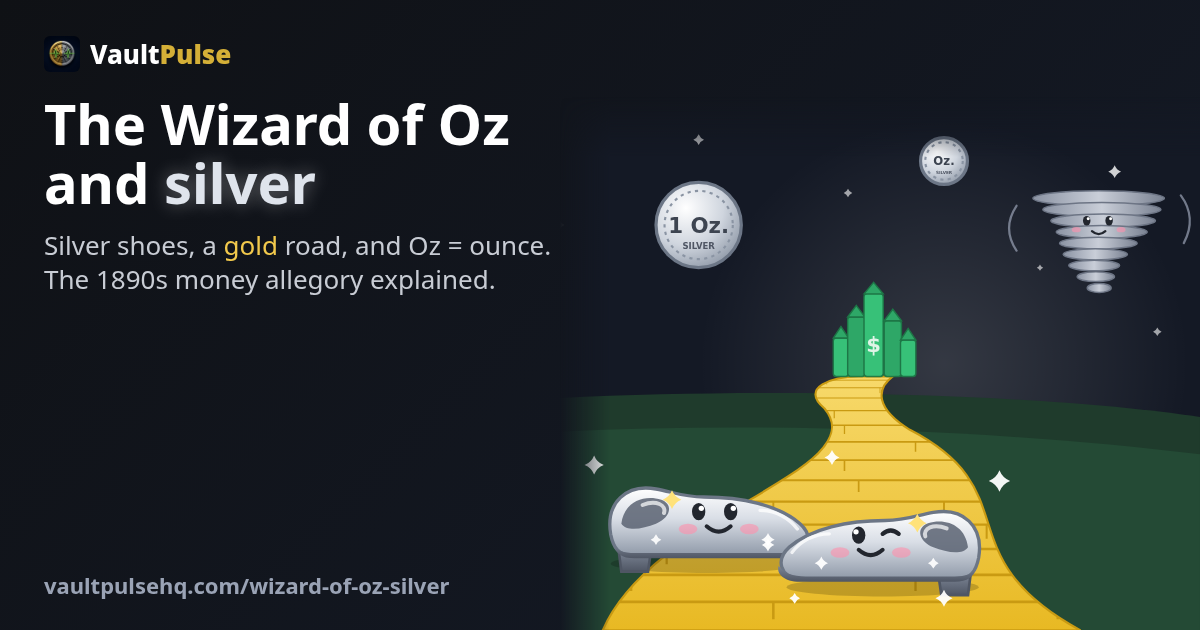
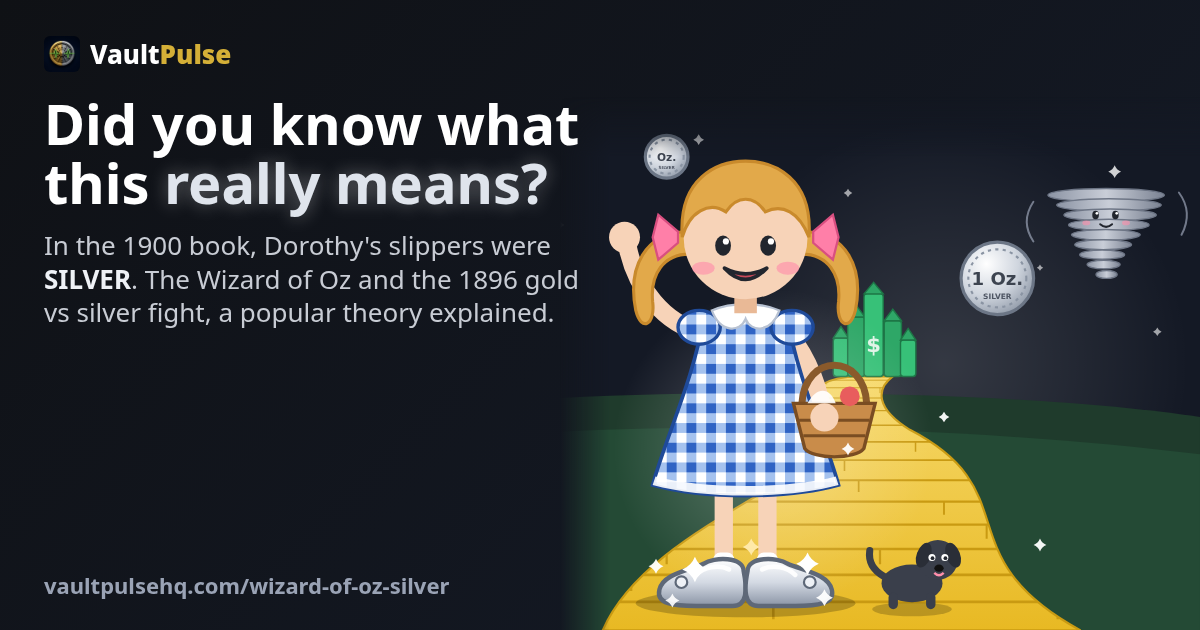
Oz X ad + og card: question headline 'Did you know what this really means?', original smiling book-style Dorothy (checked gingham, pigtails, basket) in sparkly SILVER slippers on the yellow brick road, small generic pup

diff --git a/scripts/oz_art.py b/scripts/oz_art.py
@@ -67,3 +67,78 @@ def scene(p='h',vb='0 0 800 500',sky=True,ad=False):
             +DEFS.format(p=p)+bg+ground+road(p,800,500,262)+city(p,494,262,.9)+(tornado(p,705,95,.7)+coin(p,330,120,40)+coin(p,560,60,22,'Oz.') if ad else tornado(p,150,110,.85)+coin(p,690,150,42)+coin(p,300,95,24,'Oz.'))
             +shoe(p,240,350,1.25)+shoe(p,600,372,1.25,True,True)
             +''.join(spark(x,y,r,'#fff',.95) for x,y,r in [(232,345,9),(455,338,7),(612,360,10),(395,420,6),(560,470,8),(420,470,5)])+'</svg>')
+def dorothy(p,x,y,sc=1):
+    """ORIGINAL cartoon Dorothy based on the public-domain 1900 book (blue-and-white checked gingham,
+    pigtails, little basket, SILVER shoes). Not the 1939 film design: golden pigtails with pink ribbons,
+    plain checked dress with a white collar, silver (not ruby) slippers. Feet at (0,0), ~300 units tall."""
+    skin='#f7d3b8'; skin_s='#e9b996'; hair='#e2a94a'; hair_s='#c98a2c'; ink='#22262e'
+    d=(f'<defs><pattern id="{p}ging" width="14" height="14" patternUnits="userSpaceOnUse">'
+       f'<rect width="14" height="14" fill="#ffffff"/><rect width="7" height="14" fill="#5b8fe0" opacity=".55"/>'
+       f'<rect width="14" height="7" fill="#5b8fe0" opacity=".55"/><rect width="7" height="7" fill="#2f63c4"/></pattern>'
+       f'<linearGradient id="{p}slip" x1="0" y1="0" x2="0" y2="1"><stop offset="0" stop-color="#ffffff"/><stop offset=".5" stop-color="#d3d9e3"/><stop offset="1" stop-color="#8a94a5"/></linearGradient></defs>')
+    g=d+'<ellipse cx="0" cy="2" rx="78" ry="10" fill="#000" opacity=".22"/>'
+    # legs + socks
+    g+=f'<rect x="-22" y="-84" width="13" height="74" rx="6" fill="{skin}"/><rect x="9" y="-84" width="13" height="74" rx="6" fill="{skin}"/>'
+    g+='<rect x="-23" y="-34" width="15" height="24" rx="5" fill="#ffffff"/><rect x="8" y="-34" width="15" height="24" rx="5" fill="#ffffff"/>'
+    # SILVER slippers (big, sparkly)
+    for sx,fl in [(-17,-1),(17,1)]:
+        g+=(f'<g transform="translate({sx},0) scale({fl*1.3},1.3)">'
+            f'<path d="M-12,-16 C-12,-24 4,-24 10,-20 C20,-16 32,-14 34,-6 C36,2 26,3 14,3 L-6,3 C-14,3 -14,-6 -12,-16Z" fill="url(#{p}slip)" stroke="#5e6878" stroke-width="2.4"/>'
+            f'<path d="M-4,-17 C2,-20 10,-18 14,-14" stroke="#fff" stroke-width="2.6" fill="none" stroke-linecap="round" opacity=".9"/>'
+            f'<circle cx="22" cy="-10" r="3.2" fill="#eef1f6" stroke="#5e6878" stroke-width="1.2"/></g>')
+    g+=spark(-36,-22,9,'#ffffff',1)+spark(44,-26,8,'#ffffff',1)+spark(4,-38,6,'#ffe9a8',1)+spark(-52,0,5,'#fff',.9)+spark(56,-2,6,'#fff',.95)
+    # arms (behind dress edges)
+    g+=f'<path d="M-30,-190 C-58,-196 -78,-222 -84,-252" stroke="{skin}" stroke-width="13" fill="none" stroke-linecap="round"/>'
+    g+=f'<circle cx="-86" cy="-258" r="11" fill="{skin}"/>'  # waving hand
+    g+=f'<path d="M30,-190 C46,-170 52,-150 56,-128" stroke="{skin}" stroke-width="13" fill="none" stroke-linecap="round"/>'
+    # dress
+    g+=(f'<path d="M-30,-200 C-36,-160 -58,-112 -66,-82 C-30,-72 30,-72 66,-82 C58,-112 36,-160 30,-200 C12,-208 -12,-208 -30,-200Z" fill="url(#{p}ging)" stroke="#1f4a99" stroke-width="2.6"/>'
+        f'<path d="M-66,-82 C-30,-72 30,-72 66,-82 L64,-88 C30,-79 -30,-79 -64,-88Z" fill="#ffffff" opacity=".9"/>')
+    # puff sleeves
+    g+=f'<ellipse cx="-33" cy="-194" rx="15" ry="12" fill="url(#{p}ging)" stroke="#1f4a99" stroke-width="2.4"/><ellipse cx="33" cy="-194" rx="15" ry="12" fill="url(#{p}ging)" stroke="#1f4a99" stroke-width="2.4"/>'
+    # white collar
+    g+='<path d="M-24,-206 C-18,-190 -4,-190 0,-200 C4,-190 18,-190 24,-206 C10,-212 -10,-212 -24,-206Z" fill="#ffffff" stroke="#b8c2d2" stroke-width="1.6"/>'
+    # basket in right hand
+    g+=(f'<path d="M40,-140 C42,-176 84,-176 86,-140" stroke="#8a5a2b" stroke-width="5" fill="none"/>'
+        f'<path d="M34,-140 L92,-140 L84,-108 C78,-100 48,-100 42,-108Z" fill="#c98c4a" stroke="#7a4d22" stroke-width="2.4"/>'
+        f'<path d="M38,-128 L88,-128 M41,-117 L85,-117" stroke="#7a4d22" stroke-width="2"/>'
+        f'<path d="M44,-140 C50,-152 60,-152 64,-140 Z" fill="#ffffff" opacity=".9"/><circle cx="74" cy="-145" r="7" fill="#e85d5d"/>'
+        f'<circle cx="56" cy="-130" r="10" fill="{skin}"/>')
+    # neck + head
+    g+=f'<rect x="-8" y="-222" width="16" height="18" fill="{skin_s}"/>'
+    # pigtails (behind head)
+    for s in (-1,1):
+        g+=(f'<path d="M{s*40},-262 C{s*72},-262 {s*84},-236 {s*78},-206 C{s*74},-190 {s*64},-196 {s*66},-212 C{s*68},-232 {s*58},-246 {s*40},-246Z" fill="{hair}" stroke="{hair_s}" stroke-width="2.2"/>'
+            f'<path d="M{s*48},-262 l{s*14},-12 l{s*4},16 l{s*-4},16 l{s*-14},-12Z" fill="#ff7fa8" stroke="#d94f80" stroke-width="1.6"/>')
+    g+=f'<circle cx="0" cy="-258" r="44" fill="{skin}"/>'
+    # hair cap + bangs
+    g+=(f'<path d="M-45,-258 C-48,-300 -20,-312 0,-312 C20,-312 48,-300 45,-258 C38,-276 26,-282 14,-276 C6,-288 -6,-288 -14,-276 C-26,-284 -40,-276 -45,-258Z" fill="{hair}" stroke="{hair_s}" stroke-width="2.2"/>')
+    # face: big happy eyes + SMILE + blush
+    g+=(f'<ellipse cx="-16" cy="-252" rx="5.6" ry="7.2" fill="{ink}"/><circle cx="-14" cy="-255" r="2.2" fill="#fff"/>'
+        f'<ellipse cx="16" cy="-252" rx="5.6" ry="7.2" fill="{ink}"/><circle cx="18" cy="-255" r="2.2" fill="#fff"/>'
+        f'<path d="M-15,-236 Q0,-220 15,-236 Q0,-228 -15,-236Z" fill="#c94a5a" stroke="{ink}" stroke-width="2.6" stroke-linejoin="round"/>'
+        f'<ellipse cx="-30" cy="-236" rx="8" ry="4.6" fill="#ff8fab" opacity=".65"/><ellipse cx="30" cy="-236" rx="8" ry="4.6" fill="#ff8fab" opacity=".65"/>')
+    return f'<g transform="translate({x},{y}) scale({sc})">{g}</g>'
+def pup(p,x,y,sc=1):
+    """Small generic cartoon dog (not any specific film dog)."""
+    ink='#22262e'
+    g=('<ellipse cx="0" cy="2" rx="34" ry="6" fill="#000" opacity=".2"/>'
+       '<ellipse cx="0" cy="-20" rx="26" ry="16" fill="#3a3f4b"/>'
+       '<rect x="-20" y="-12" width="8" height="14" rx="4" fill="#3a3f4b"/><rect x="12" y="-12" width="8" height="14" rx="4" fill="#3a3f4b"/>'
+       '<path d="M-24,-26 q-14,-8 -12,-22" stroke="#3a3f4b" stroke-width="6" fill="none" stroke-linecap="round"/>'
+       '<circle cx="22" cy="-40" r="17" fill="#3a3f4b"/>'
+       '<ellipse cx="10" cy="-44" rx="6" ry="11" fill="#2a2e37" transform="rotate(20 10 -44)"/><ellipse cx="35" cy="-44" rx="6" ry="11" fill="#2a2e37" transform="rotate(-20 35 -44)"/>'
+       '<circle cx="17" cy="-42" r="3" fill="#fff"/><circle cx="28" cy="-42" r="3" fill="#fff"/><circle cx="17.5" cy="-41.5" r="1.6" fill="'+ink+'"/><circle cx="28.5" cy="-41.5" r="1.6" fill="'+ink+'"/>'
+       '<ellipse cx="23" cy="-33" rx="4" ry="3" fill="#111"/><path d="M19,-29 q4,4 8,0" stroke="#ff8fab" stroke-width="2" fill="none"/>')
+    return f'<g transform="translate({x},{y}) scale({sc})">{g}</g>'
+def scene2(p='h',vb='0 0 800 500',sc=1.0):
+    """Ad scene: same sky/road/Emerald City/tornado/coins, with smiling Dorothy in silver slippers as focal point."""
+    bg=(f'<rect width="800" height="500" fill="#141925"/><circle cx="560" cy="250" r="230" fill="url(#{p}glow)" opacity=".25"/>'
+        +''.join(spark(x,y,r,'#fff',o) for x,y,r,o in [(80,60,6,.8),(200,120,4,.6),(330,40,5,.7),(720,70,6,.8),(650,160,3,.6),(470,90,4,.6),(40,200,3,.5),(760,220,4,.6)]))
+    ground='<path d="M0,300 C200,270 600,270 800,300 L800,500 L0,500Z" fill="#1f3b2c"/><path d="M0,330 C250,300 550,305 800,335 L800,500 L0,500Z" fill="#244a35"/>'
+    return (f'<svg xmlns="http://www.w3.org/2000/svg" viewBox="{vb}" role="img" aria-label="Original cartoon: a smiling girl in a blue-and-white checked dress and sparkly silver shoes on a yellow brick road, with a green city, a little tornado and silver Oz coins">'
+            +DEFS.format(p=p)+bg+ground+road(p,800,500,262)+city(p,494,262,.9)
+            +tornado(p,712,92,.62)+coin(p,610,170,34)+coin(p,300,56,20,'Oz.')
+            +'<circle cx="400" cy="330" r="150" fill="url(#'+p+'glow)" opacity=".5"/>'
+            +pup(p,530,478,1.1*sc)+dorothy(p,374,472,1.32*sc)
+            +''.join(spark(x,y,r,'#fff',.95) for x,y,r in [(290,440,7),(650,420,6),(560,300,5),(470,330,6)])+'</svg>')

diff --git a/scripts/build_oz_images.py b/scripts/build_oz_images.py
@@ -9,20 +9,20 @@ card=f'''<html><head><style>{CSS}
 h1{{margin:22px 0 0;font-size:56px;line-height:1.06;color:#fff}}h1 .s{{color:#dfe4ec;text-shadow:0 0 18px rgba(255,255,255,.35)}}h1 .g{{color:#f2c94c}}
 p{{margin:16px 0 0;font-size:26px;color:#c8ccd4;line-height:1.3}}.art{{position:absolute;right:0;bottom:0;width:640px;-webkit-mask-image:linear-gradient(90deg,transparent 0,#000 50px),linear-gradient(transparent 0,#000 60px);-webkit-mask-composite:source-in}}
 .u{{position:absolute;left:44px;bottom:30px;font-size:22px;color:#9aa3b5;font-weight:700}}</style></head>
-<body><div class="w"><div class="art">{oz_art.scene('c','200 0 600 500',ad=True)}</div><div class="t">{LOGO(26)}<h1>The Wizard of Oz and <span class="s">silver</span></h1><p>Silver shoes, a <span style="color:#f2c94c">gold</span> road, and Oz = ounce. The 1890s money allegory explained.</p></div><div class="u">vaultpulsehq.com/wizard-of-oz-silver</div></div></body></html>'''
+<body><div class="w"><div class="art">{oz_art.scene2('c','200 0 600 500')}</div><div class="t">{LOGO(26)}<h1>Did you know what this <span class="s">really means?</span></h1><p>In the 1900 book, Dorothy's slippers were <b style="color:#eef1f6">SILVER</b>. The Wizard of Oz and the 1896 gold vs silver fight, a popular theory explained.</p></div><div class="u">vaultpulsehq.com/wizard-of-oz-silver</div></div></body></html>'''
 x=f'''<html><head><style>{CSS}
 .w{{position:relative;width:1600px;height:900px;background:linear-gradient(135deg,#0f1115,#151b28)}}
 .art{{position:absolute;right:0;bottom:0;width:880px;-webkit-mask-image:linear-gradient(90deg,transparent 0,#000 60px),linear-gradient(transparent 0,#000 80px);-webkit-mask-composite:source-in}}
 .t{{position:absolute;left:60px;top:54px;width:700px}}
-h1{{margin:40px 0 0;font-size:84px;line-height:1.02;color:#fff;letter-spacing:-1px}}h1 .s{{display:block;color:#eef1f6;font-size:118px;text-shadow:0 0 26px rgba(255,255,255,.45)}}
-.q{{margin:28px 0 0;font-size:36px;line-height:1.25;color:#e6e6e6;font-weight:700}}.q b{{color:#f2c94c}}.q i{{color:#eef1f6;font-style:normal;font-weight:900}}
+h1{{margin:34px 0 0;font-size:88px;line-height:1.04;color:#fff;letter-spacing:-1px}}h1 .s{{display:block;color:#eef1f6;text-shadow:0 0 26px rgba(255,255,255,.45)}}
+.q{{margin:26px 0 0;font-size:38px;line-height:1.25;color:#e6e6e6;font-weight:700}}.q b{{color:#f2c94c}}.q i{{color:#eef1f6;font-style:normal;font-weight:900}}
 .k{{margin-top:30px;font-size:34px;color:#d4af37;font-weight:800;border-left:6px solid #d4af37;padding:10px 18px;background:#1a1d24;border-radius:8px}}
-.n{{margin-top:16px;font-size:24px;color:#9aa3b5}}.f{{position:absolute;left:60px;bottom:40px;font-size:32px;font-weight:800;color:#fff;background:#d4af37;color:#141925;padding:12px 22px;border-radius:40px}}
+.n{{margin-top:16px;font-size:28px;color:#9aa3b5}}.f{{position:absolute;left:60px;bottom:40px;font-size:32px;font-weight:800;color:#fff;background:#d4af37;color:#141925;padding:12px 22px;border-radius:40px}}
 .sp{{position:absolute;color:#fff;font-size:40px}}</style></head>
-<body><div class="w"><div class="art">{oz_art.scene('x','200 0 600 500',ad=True)}</div><div class="t">{LOGO(34)}
-<h1>There's no place like&hellip;<span class="s">silver</span></h1>
-<div class="q">Follow the <b>yellow brick road</b>? In the 1900 book, Dorothy's shoes were <i>SILVER</i>.</div>
-<div class="k">The money story hidden in the Wizard of Oz</div><div class="n">A popular theory about the 1896 gold vs silver fight. Sourced.</div></div>
+<body><div class="w"><div class="art">{oz_art.scene2('x','200 0 600 500')}</div><div class="t">{LOGO(34)}
+<h1>Did you know what this <span class="s">really means?</span></h1>
+<div class="q">In the 1900 book, Dorothy's slippers were <i>SILVER</i>.</div>
+<div class="k">The money story hidden in the Wizard of Oz</div><div class="n">A popular theory about the 1896 gold vs silver fight.</div></div>
 <div class="f">vaultpulsehq.com/wizard-of-oz-silver</div></div></body></html>'''
 for name,h,w,hh in [('oz-silver-card',card,1200,630),('oz-silver-x',x,1600,900)]:
     p=f'/tmp/{name}.html'; open(p,'w').write(h)
